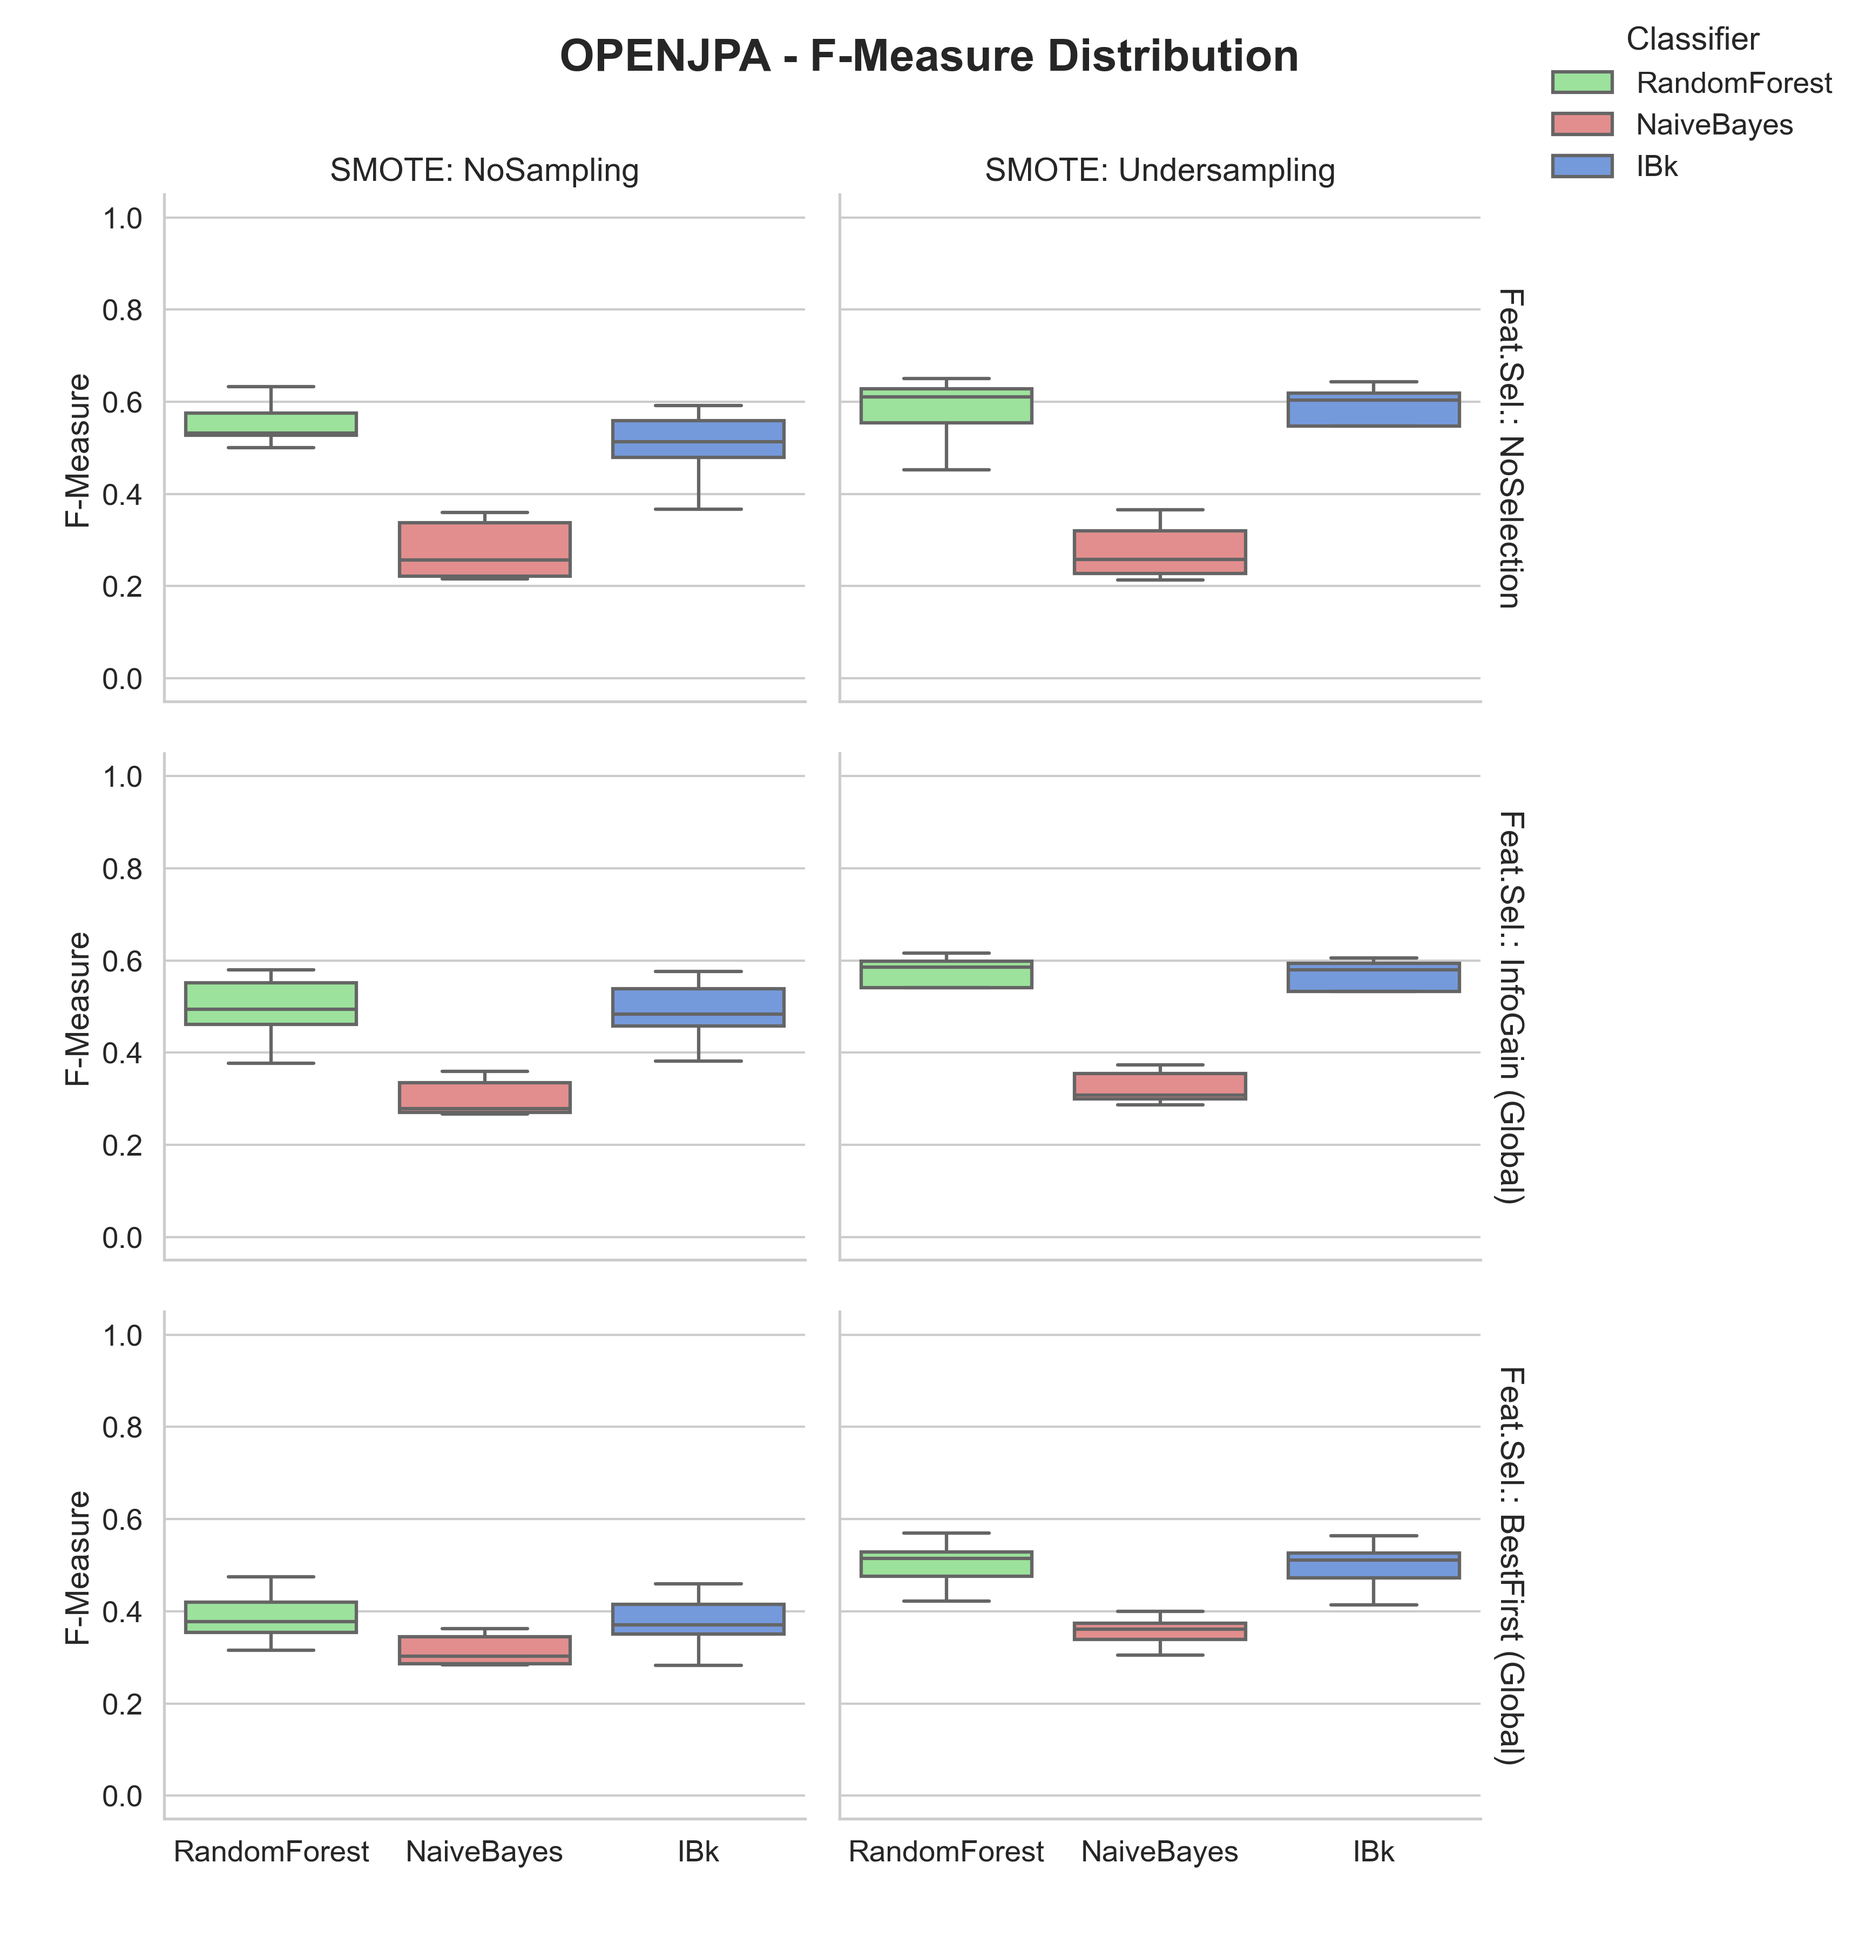
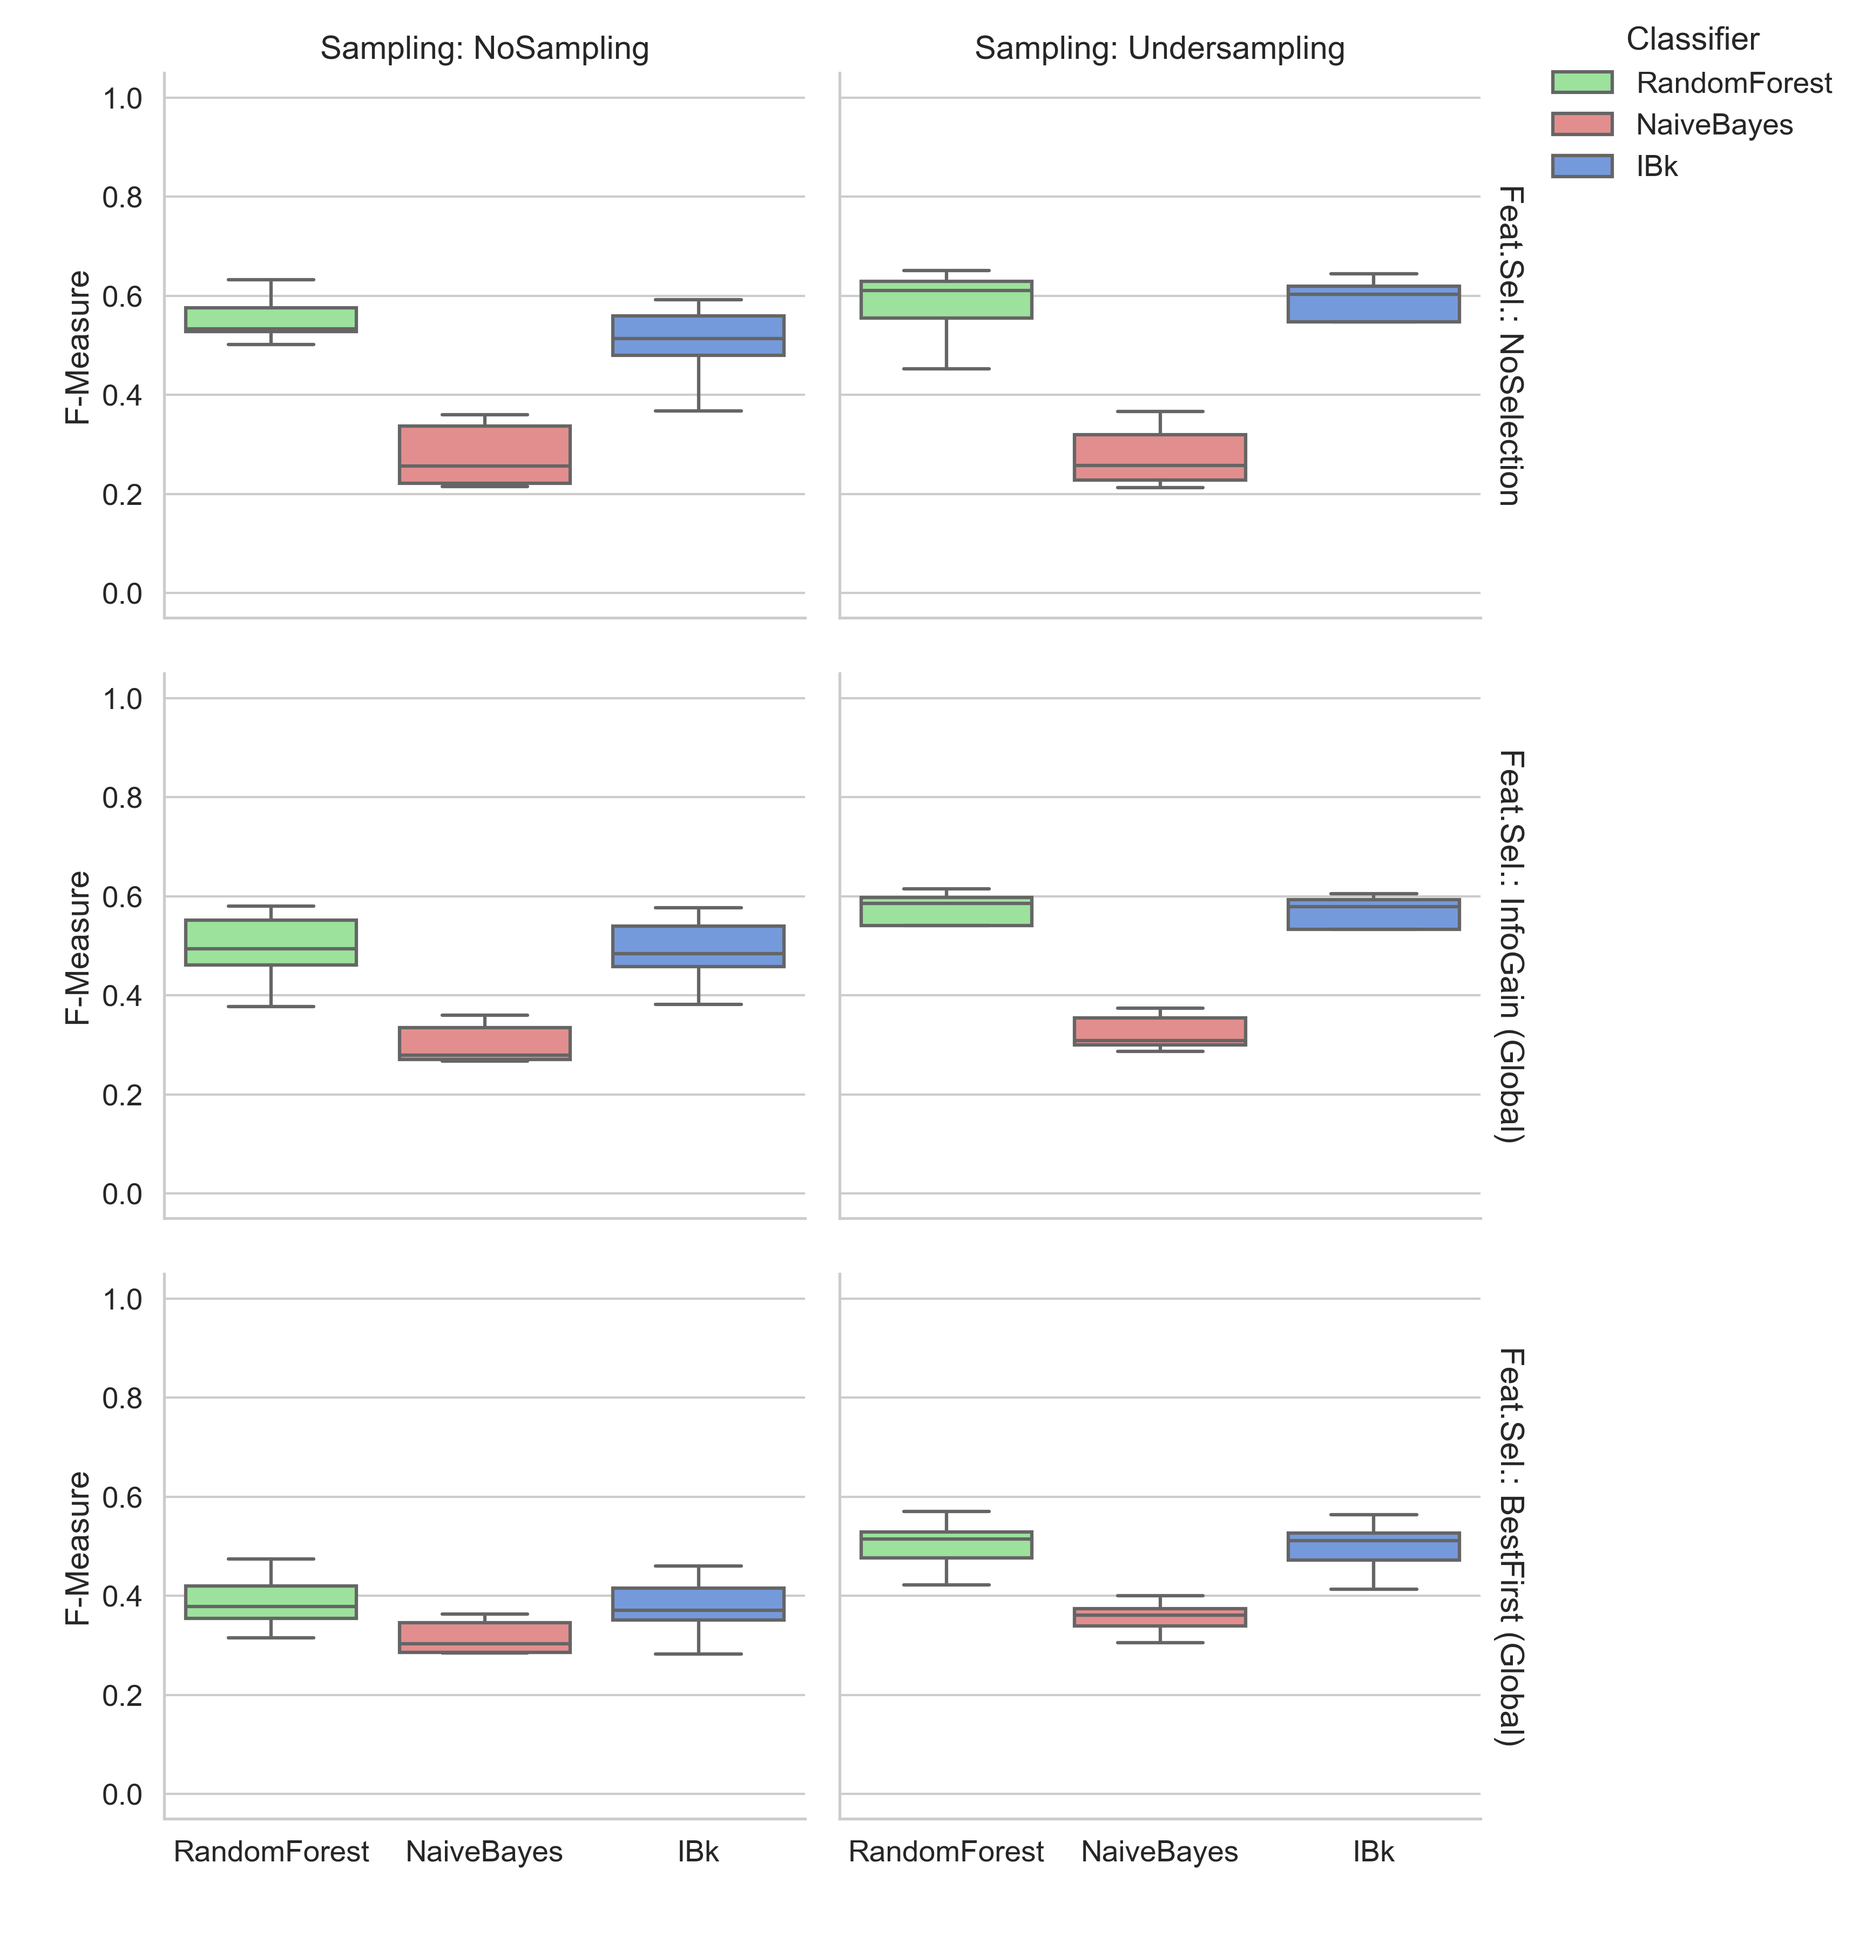
results

diff --git a/scripts/plotting/generate_graphs.py b/scripts/plotting/generate_graphs.py
@@ -35,12 +35,19 @@ def main():
             sys.exit(0)
 
         # 2. Pulizia e Preparazione
-        if 'Sampling' in df.columns:
-            df.rename(columns={'Sampling': 'SMOTE'}, inplace=True)
+
+        # --- MODIFICA: Rimossa la rinominazione forzata da 'Sampling' a 'SMOTE' ---
+        # Ci assicuriamo che la colonna esista e la trattiamo come stringa
+        sampling_col = 'Sampling'
+        if sampling_col not in df.columns:
+            # Fallback se la colonna non si chiama Sampling
+            print(f"[Python] Warning: Colonna '{sampling_col}' non trovata. Cerco colonne simili...")
+            # Qui potresti aggiungere logica per trovare colonne alternative se serve
+            pass
+        else:
+            df[sampling_col] = df[sampling_col].astype(str)
 
         df['FeatureSelection'] = df['FeatureSelection'].astype(str)
-        if 'SMOTE' in df.columns:
-            df['SMOTE'] = df['SMOTE'].astype(str)
 
         project_name = df['Project'].iloc[0] if 'Project' in df.columns else "Project"
 
@@ -55,13 +62,14 @@ def main():
             print(f"[Python] Generazione grafico per {metric}...")
 
             # --- Generazione Matrice ---
+            # Nota: col="Sampling" invece di col="SMOTE"
             g = sns.catplot(
                 data=df,
                 kind="box",
                 x="Classifier",
                 y=metric,
                 hue="Classifier",
-                col="SMOTE",
+                col=sampling_col,      # Usa la colonna corretta
                 row="FeatureSelection",
                 palette=CUSTOM_PALETTE,
                 height=4,
@@ -70,15 +78,18 @@ def main():
                 showfliers=False,
                 linewidth=1.5,
                 sharey=True,
-                legend=True # Forziamo la creazione della legenda se possibile
+                legend=True
             )
 
             # --- Styling Avanzato ---
-            g.figure.subplots_adjust(top=0.9)
-            g.figure.suptitle(f'{project_name} - {metric} Distribution', fontsize=20, fontweight='bold')
+            #g.figure.subplots_adjust(top=0.9)
+            #g.figure.suptitle(f'{project_name} - {metric} Distribution', fontsize=20, fontweight='bold')
 
             g.set_axis_labels("", metric)
-            g.set_titles(col_template="SMOTE: {col_name}", row_template="Feat.Sel.: {row_name}")
+
+            # --- MODIFICA TITOLI ---
+            # Ora userà "Sampling: Undersampling", "Sampling: SMOTE", ecc.
+            g.set_titles(col_template="Sampling: {col_name}", row_template="Feat.Sel.: {row_name}")
 
             # Limiti asse Y
             if metric == 'Kappa':
@@ -87,12 +98,9 @@ def main():
                 g.set(ylim=(-0.05, 1.05))
 
             # --- FIX ERRORE LEGENDA ---
-            # Proviamo a spostare la legenda solo se esiste.
-            # Se Seaborn non l'ha creata (perché ridondante), saltiamo il passaggio senza crashare.
             try:
                 sns.move_legend(g, "upper right", bbox_to_anchor=(1, 1))
             except ValueError:
-                # Se la legenda non esiste, non fa nulla (il grafico va bene anche senza, i nomi sono sull'asse X)
                 pass
             except Exception as e:
                 print(f"[Python] Warning non bloccante sulla legenda: {e}")
